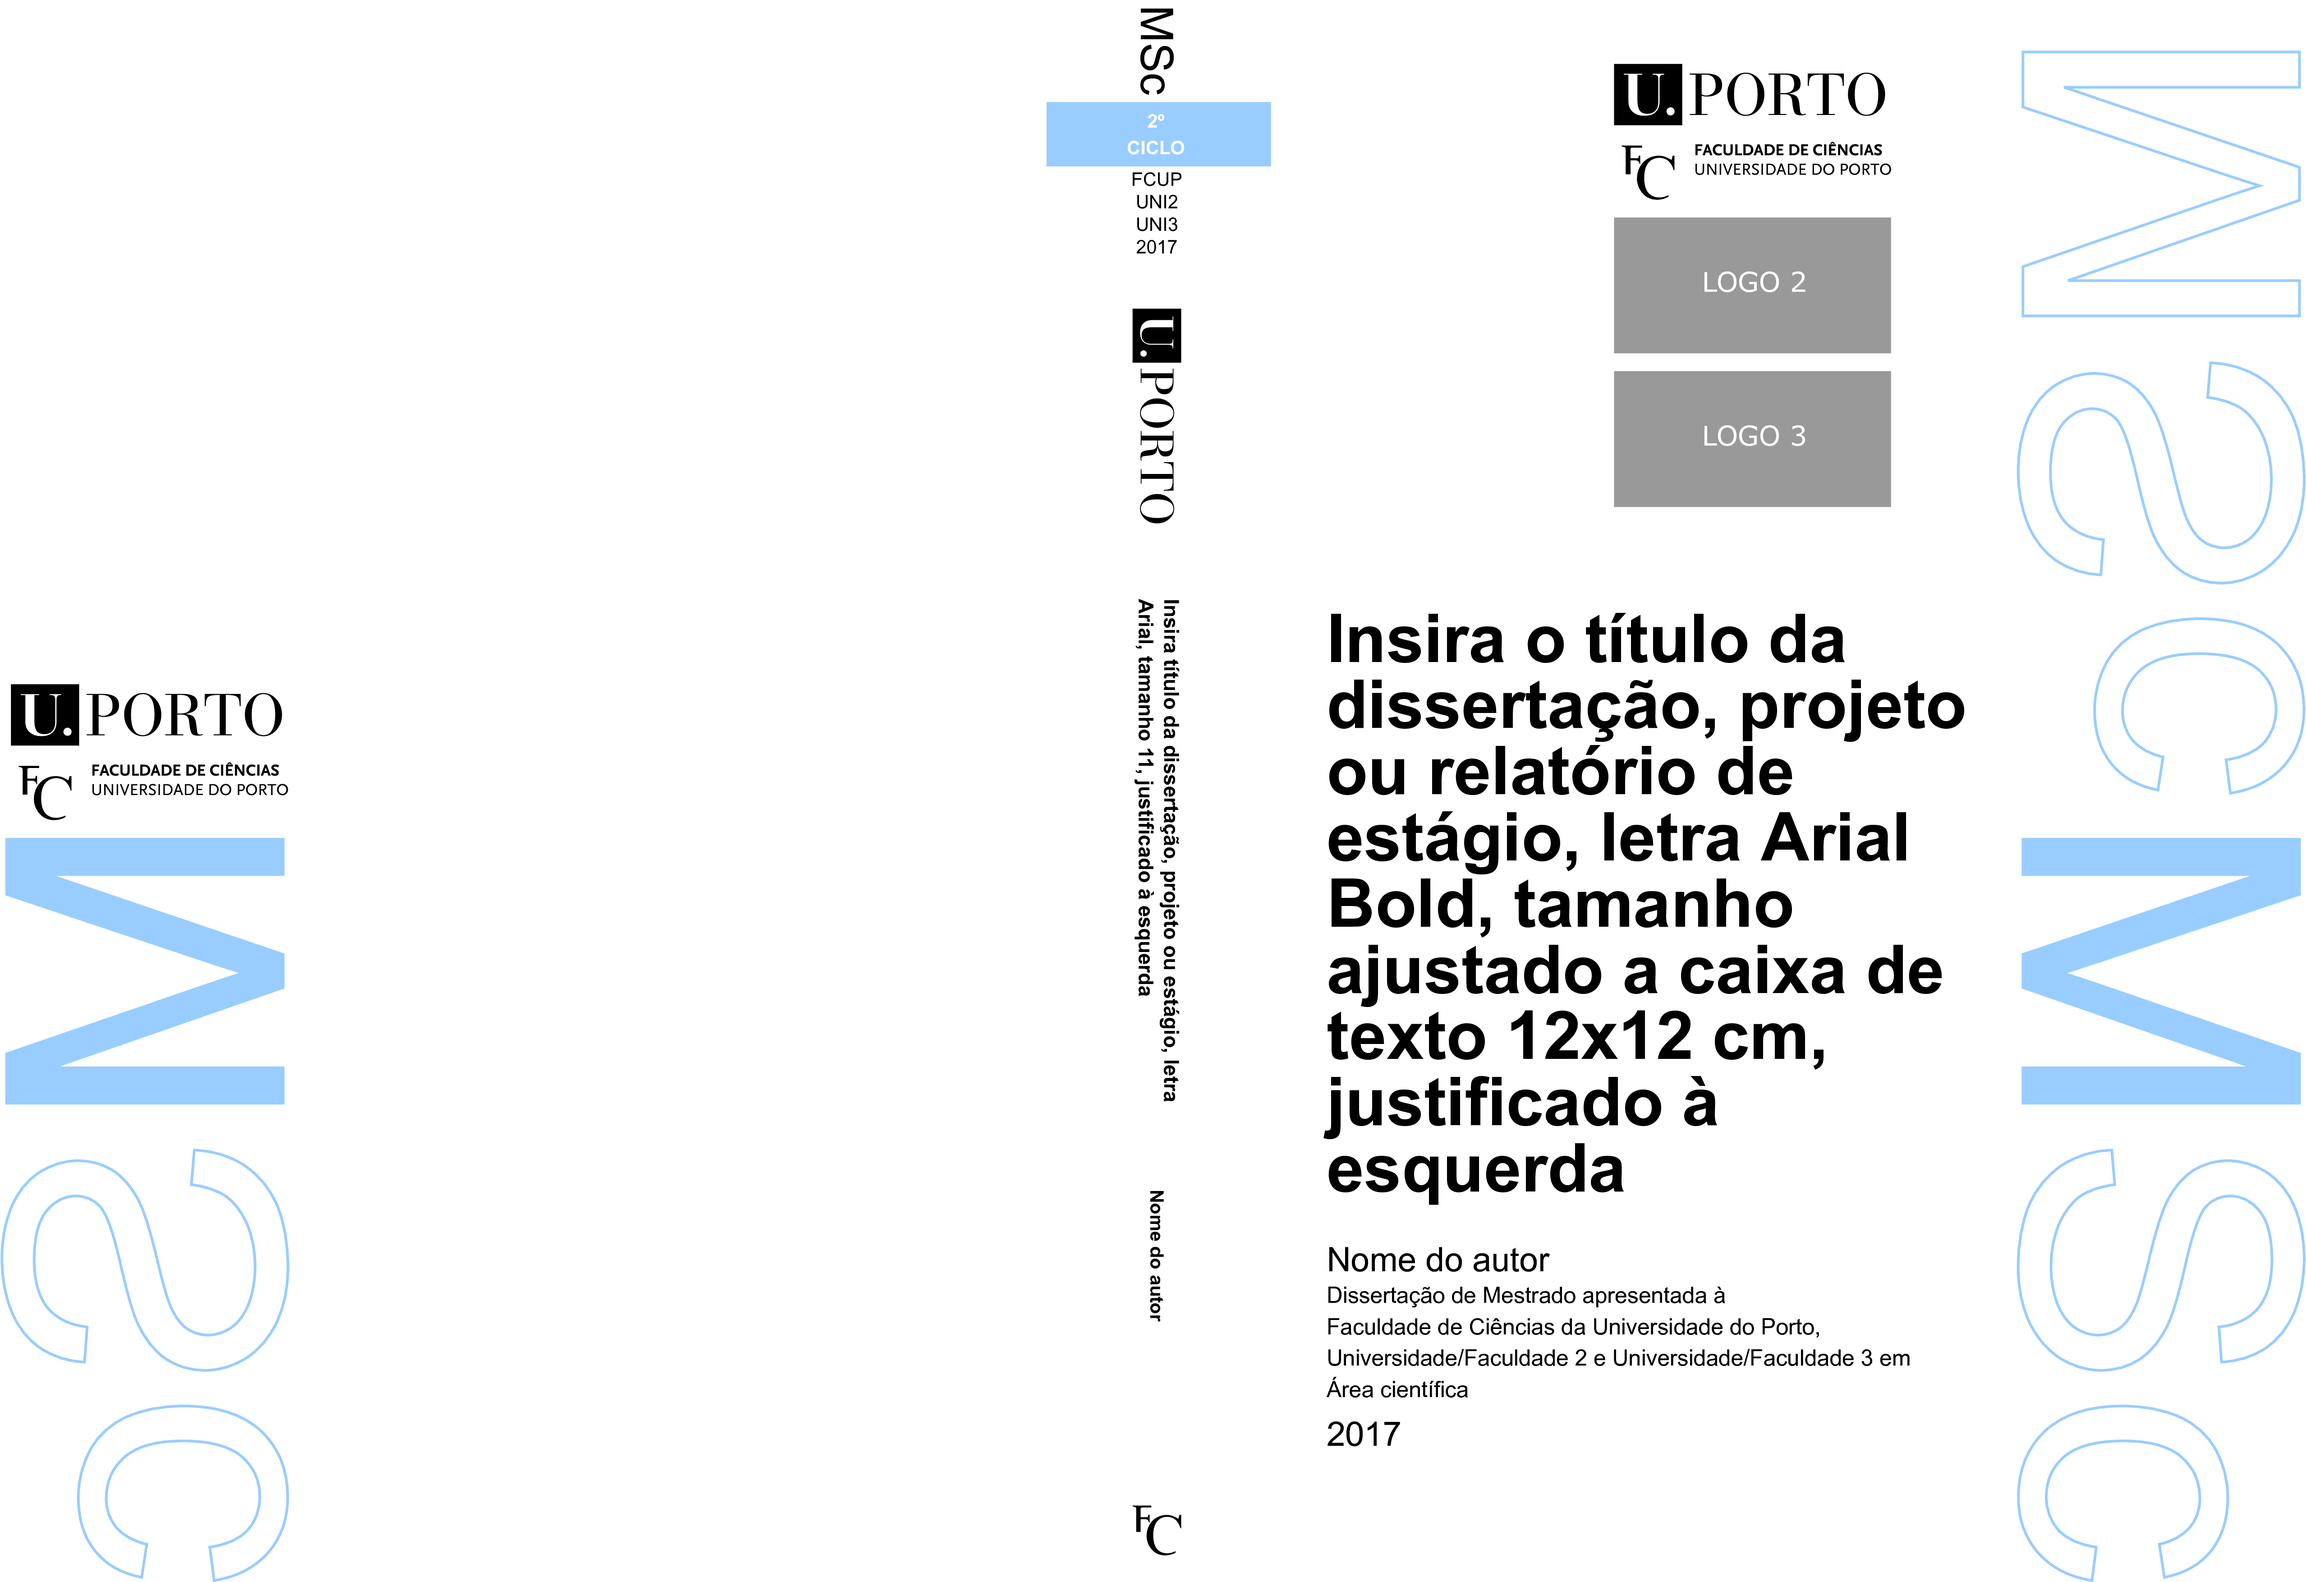
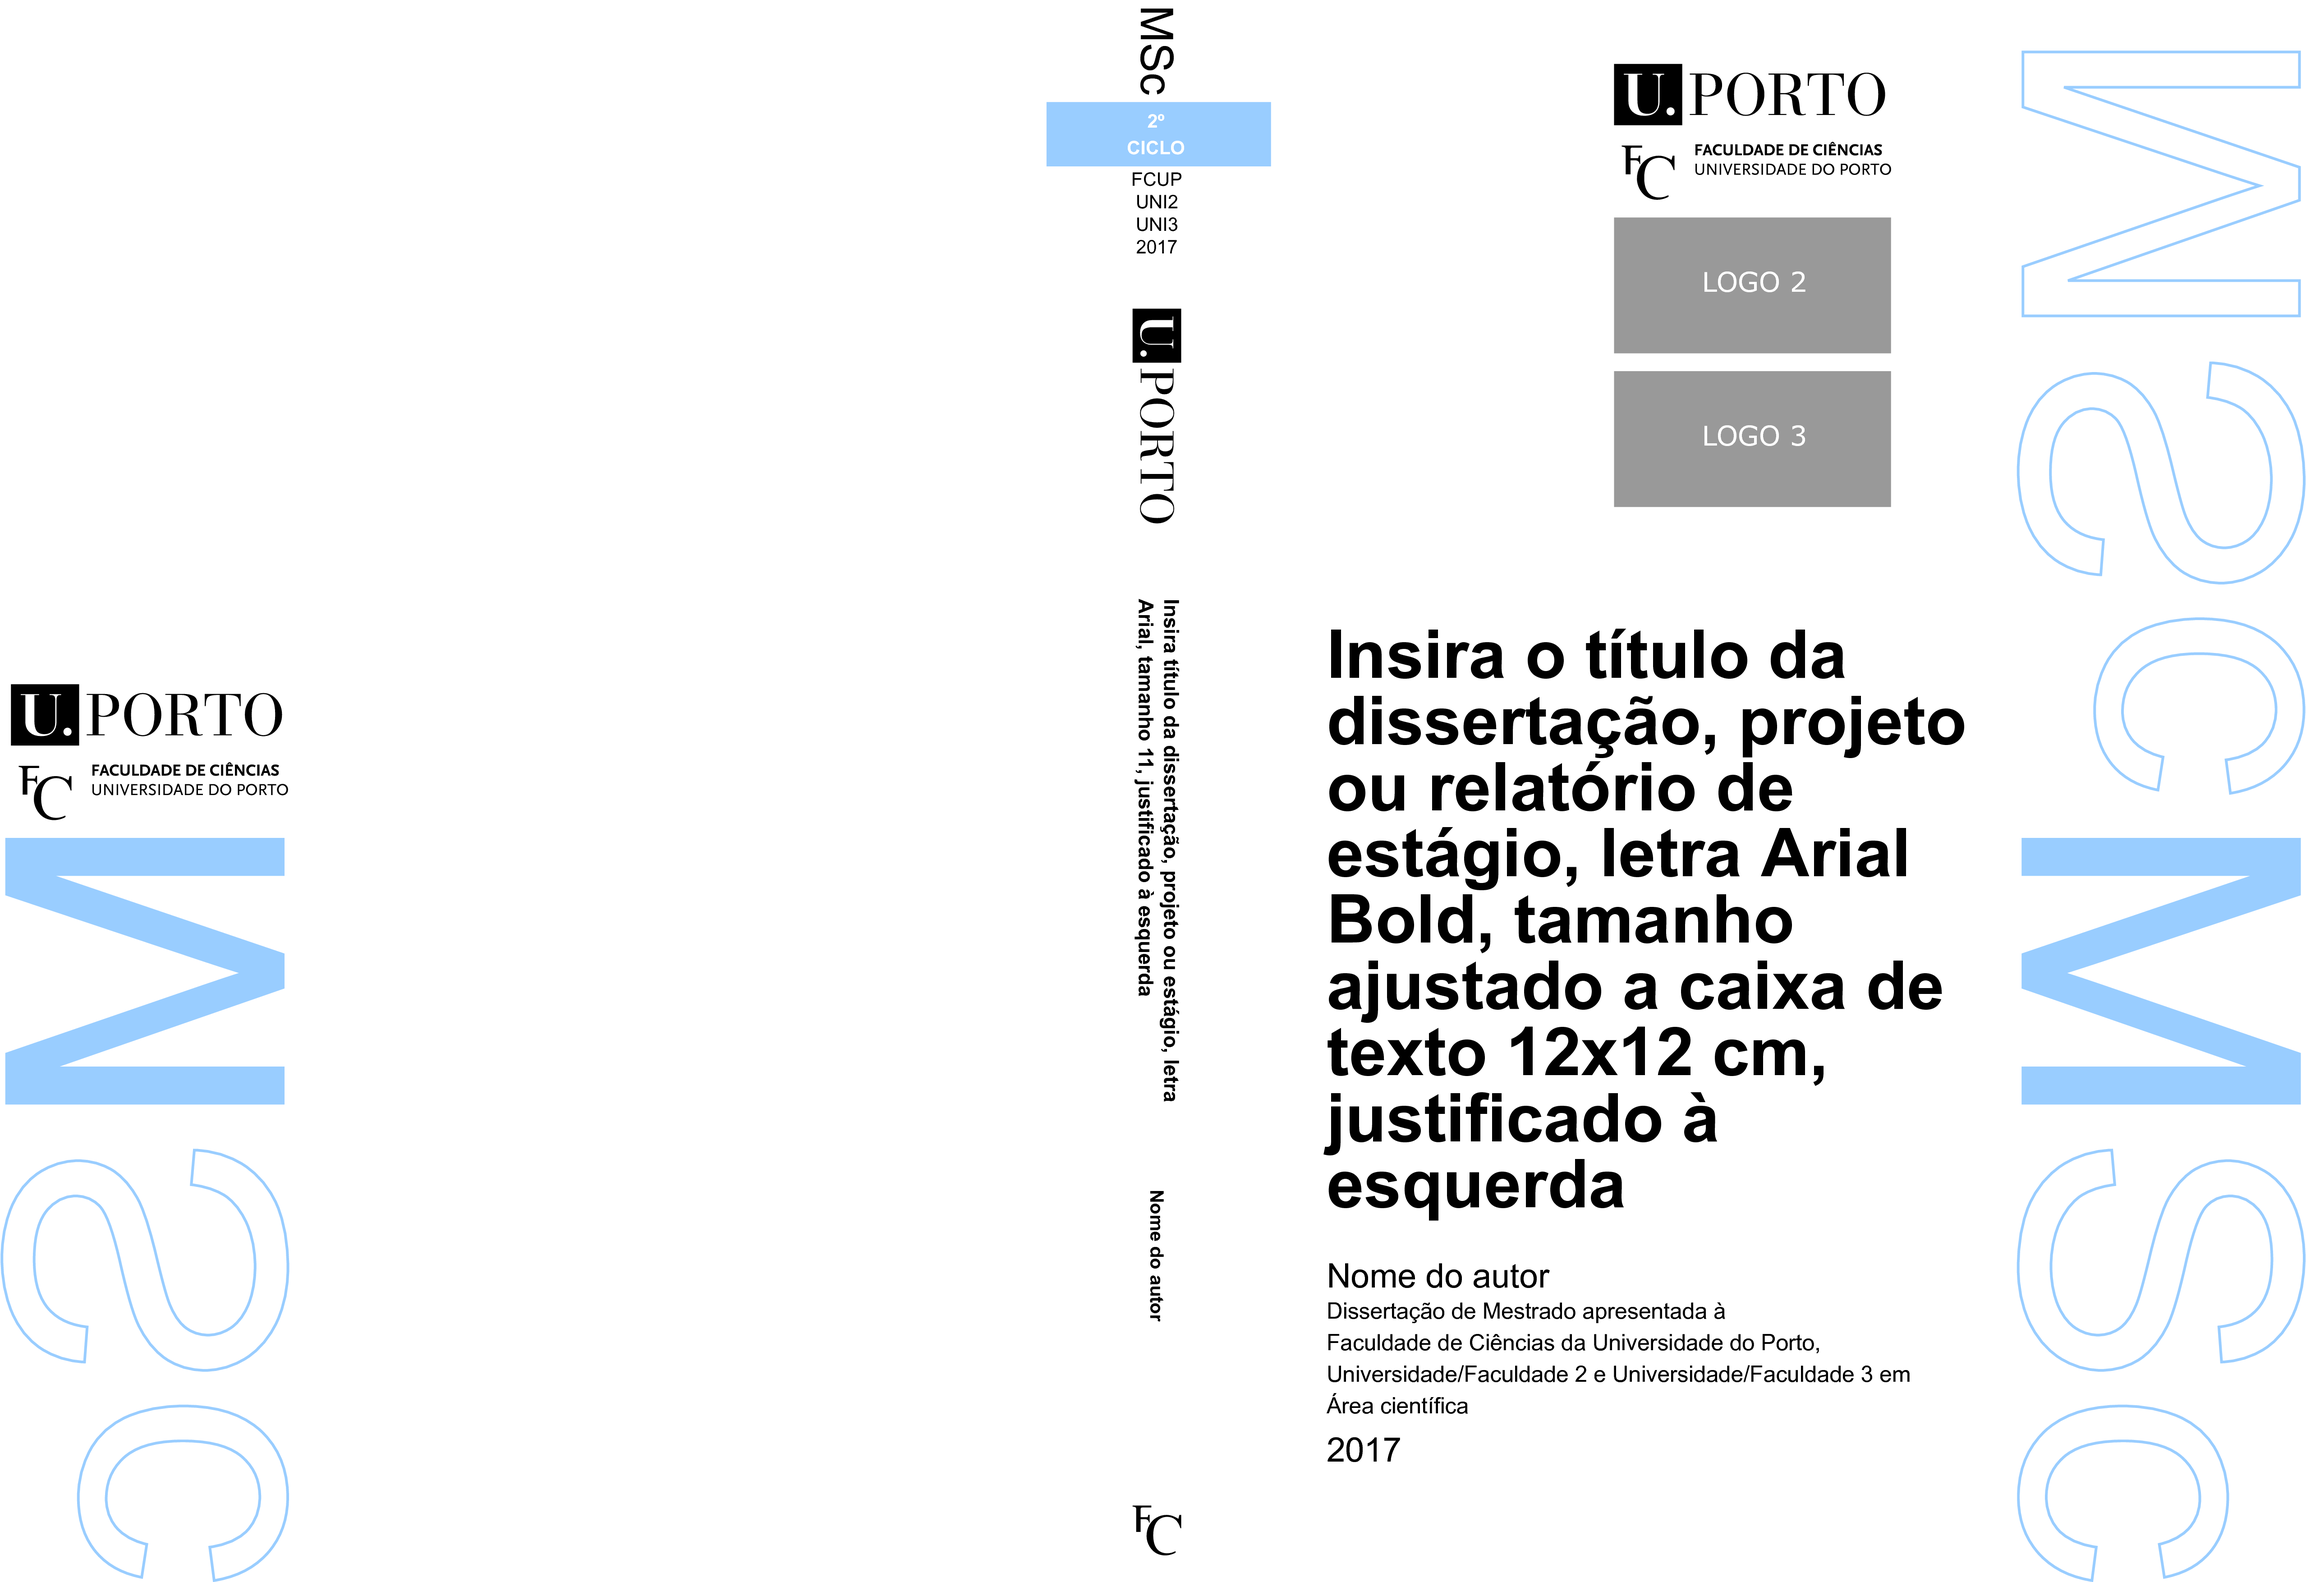
updated README

Changed region(s): [[0.5596, 0.3729, 0.8706, 0.9322]]

diff --git a/main.tex b/main.tex
@@ -479,7 +479,7 @@
 					\scifield \\}
 					{\LargeA \the\year \\}
 				}
-				\vspace{8mm}
+				\vspace{5mm}
 			\end{minipage}
 			\hfill
 			\begin{minipage}[b][297mm][b]{\sidew}

diff --git a/README.md b/README.md
@@ -11,7 +11,7 @@ All font rights belong to Microsoft.
 
 The recommended Latex distribution is [**TeXLive 2016**](https://www.tug.org/texlive) (Windows/Ubuntu). You can get it on the macOS by downloading **MacTeX** in [**here**](https://www.tug.org/mactex). The distribution [**MiKTeX**](https://miktex.org/) it is likely to work, but you may have to manually install some packages depending on your settings. 
 
-For the Arial font and all packages to work, **_main.tex_** must be executed with `xelatex`. After making the proper modifications to the file **_vars.tex_**, you must run `xelatex -interaction=nonstopmode -file-line-error -pdf main` in the workspace root to generate the output pdf. Due to the use of external fonts, compilation may take more than a full minute.
+For the Arial font and all packages to work, **_main.tex_** must be executed with `xelatex`. After making the proper modifications to the file **_vars.tex_**, you must run `xelatex -interaction=nonstopmode -file-line-error main` in the workspace root to generate the output pdf. Due to the use of external fonts, compilation may take more than a full minute.
 
 Alternatively, a simpler way would be to use the online service like [**ShareLaTeX**](https://www.sharelatex.com) to obtain the layout pages. Download a copy of the repository under _Clone or download > Download ZIP_. Then, in ShareLaTeX website, import the downloaded .zip file in _New project > Upload project_, making sure that that the compiler is set to _XeLaTeX_ under _Menu > Settings_.
 
